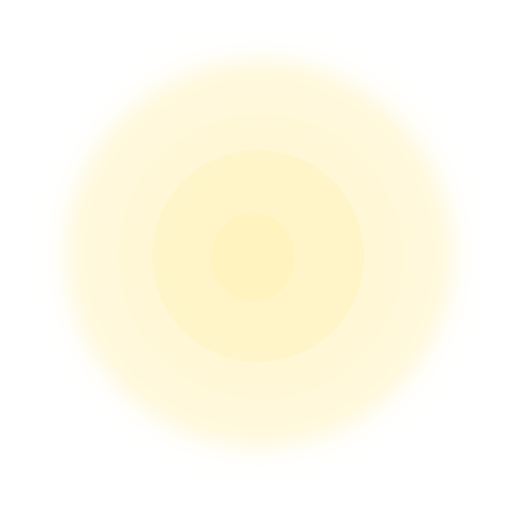
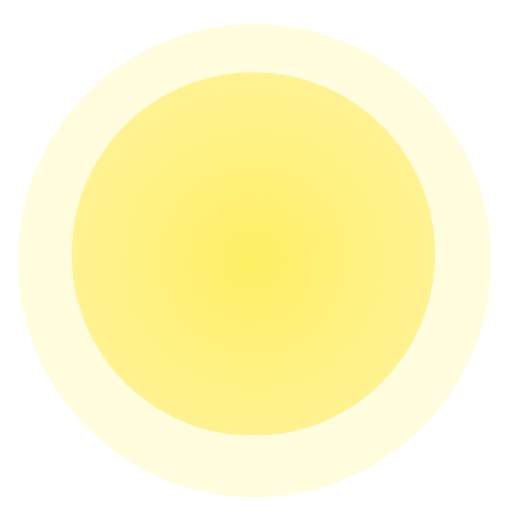
added friction, and everything currently works counter intuitive ;\

diff --git a/Game - Client/Level.cpp b/Game - Client/Level.cpp
@@ -21,7 +21,14 @@ void Level::LoadLevel()
 	layer->AddGameObject(gameObject);
 
 	//this->AddEntity(layer, "Mine", EntityType::Entity);
-	this->AddEntity(layer, "MineSweaper", EntityType::ActivePlayer);
+	for (int i = 0; i < 10; i++)
+	{
+		for (int j = 0; j < 10; j++)
+		{
+			this->AddEntity(layer, "MineSweaper", EntityType::ActivePlayer, vec3(2*i, 10, 2*j));
+		}
+	}
+	
 	this->AddEntity(layer, "Land", EntityType::Ground);
 	gameObject = new Effect2D("Interface/3D Effects/Sun.png"); /*this->AddEntity(layer, "Mine", EntityType::Entity);*/
 	gameObject->unit_Data.Position = FrameData::Instance().Light_Pos;
@@ -51,7 +58,7 @@ void Level::Reset()
 	this->LoadLevel();
 }
 
-GameObject* Level::AddEntity(Layer* layer, string Model, EntityType entityType)
+GameObject* Level::AddEntity(Layer* layer, string Model, EntityType entityType, vec3 Position)
 {
 	GameObject* gameObject = new GameObject();
 	gameObject->unit_Data.Model_Data = ModelsCollection::Instance()[Model];
@@ -63,7 +70,7 @@ GameObject* Level::AddEntity(Layer* layer, string Model, EntityType entityType)
 		break;
 	case Level::EntityType::ActivePlayer:
 		gameObject->unit_Data.HasPhysics = true;
-		gameObject->unit_Data.Position = vec3(0,10,0);
+		gameObject->unit_Data.Position = Position;
 		ActivePlayers.push_back(gameObject);
 		break;
 	case Level::EntityType::PassivePlayer:

diff --git a/Game - Client/GameObject.cpp b/Game - Client/GameObject.cpp
@@ -350,6 +350,7 @@ void Effect2D::Draw(SceneData & sceneData)
 	glEnable(GL_BLEND);
 	glBlendFunc(GL_SRC_ALPHA, GL_ONE_MINUS_SRC_ALPHA);
 	Mouse& mouse = Mouse::Instanace();
+	Camera& camera = Camera::GetCamera("Main");
 
 	// Model
 	Unit_Data& ud = this->unit_Data;
@@ -357,7 +358,9 @@ void Effect2D::Draw(SceneData & sceneData)
 	mat4 ModelMatrix = this->unit_Data.GetModelMatrix();
 	mat4 BlenderModelMatrix = ModelMatrix * inverse(mat4(mat3(sceneData.ViewMatrix)))  // disable rotation
 		* Default::Instance().BlenderConversion;
-	mat4 WVM = sceneData.ProjectionMatrix * sceneData.ViewMatrix * BlenderModelMatrix;
+	mat4 ViewMatScaler = translate(mat4(),-camera.GetCameraPosition()/2.0f);
+	//mat4(mat3(sceneData.ViewMatrix))
+	mat4 WVM = sceneData.ProjectionMatrix * sceneData.ViewMatrix * ViewMatScaler * BlenderModelMatrix;
 //	vec4 
 
 	/*Mouse& mouse = Mouse::Instanace();

diff --git a/Game - Client/GameObject.h b/Game - Client/GameObject.h
@@ -9,6 +9,7 @@
 #include "Loaded_Models.h"
 #include "Default.h"
 #include "glm/glm/gtc/quaternion.hpp"
+#include "Camera.h"
 using namespace nlohmann;
 using namespace chrono;
 using namespace glm;
@@ -47,9 +48,10 @@ public:
 
 		bool HasPhysics;
 		vec3 TotalForceVector;
+		vec3 FrictionVector;
 		vec3 MomentumVelocity;
 		vector<vec3> ForceVectors;
-		
+		float bounceFactor = 0.9f;
 		vector<vec3> Path;
 		vec3 Destination;
 		bool PathChanged = false;

diff --git a/Game - Client/Level.h b/Game - Client/Level.h
@@ -23,7 +23,7 @@ public:
 	vector<GameObject*> Entities;
 	vector<GameObject*> GameObjects;
 private:
-	GameObject* AddEntity(Layer* layer, string Model, EntityType);
+	GameObject* AddEntity(Layer* layer, string Model, EntityType, vec3 Position = vec3());
 	Layers layers;
 	void ClearLevel();
 
